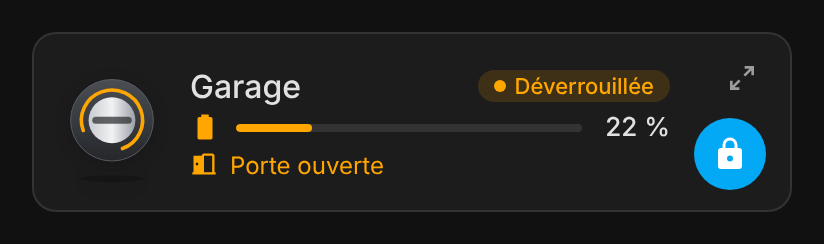
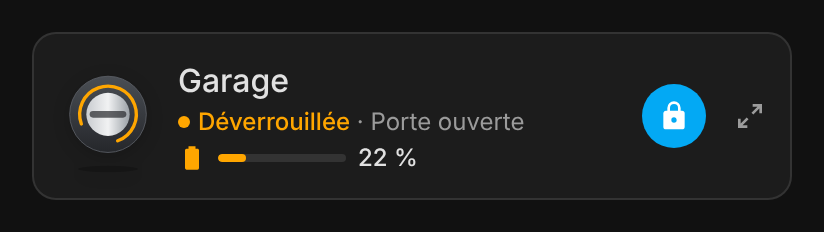
Mini card: alarm-style layout (1.2.3)
State shown in color under the name, shorter battery bar, detail button
inline at the far right of the row.

Claude-Session: https://claude.ai/code/session_01D5Bd6TRY4BTcvXm4WheNsK

diff --git a/src/smartlock-card.js b/src/smartlock-card.js
@@ -1244,22 +1244,22 @@ class SmartLockCard extends SmartLockBase {
 // ---------------------------------------------------------------------------
 
 const MINI_STYLE = `
-  .mini { display: flex; align-items: center; gap: 12px; padding: 10px 12px; }
-  .mini .right { flex: none; display: flex; flex-direction: column; align-items: flex-end; gap: 8px; }
-  .mini .right .zoom { margin: 0; }
-  .mini .picture { width: 54px; height: 62px; flex: none; }
+  .mini { display: flex; align-items: center; gap: 10px; padding: 12px; }
+  .mini .picture { width: 50px; height: 58px; flex: none; }
   .mini .picture img { filter: drop-shadow(0 2px 4px rgba(0,0,0,.18)); }
-  .mini .info { flex: 1; min-width: 0; display: flex; flex-direction: column; gap: 3px; }
-  .top { display: flex; align-items: center; gap: 8px; min-width: 0; }
-  .top .name { flex: 1; min-width: 0; font-size: 16px; font-weight: 500; white-space: nowrap; overflow: hidden; text-overflow: ellipsis; }
-  .batt { display: flex; align-items: center; gap: 8px; font-size: 13px; }
-  .batt .icon { color: var(--c); width: 15px; height: 15px; }
-  .batt .bar { flex: 1; }
-  .batt .v { font-weight: 500; min-width: 36px; text-align: right; white-space: nowrap; }
-  .batt .bolt { color: var(--sl-ok); }
-  .line, .alert-line { font-size: 12px; }
-  .line .icon, .alert-line .icon { width: 14px; height: 14px; }
-  .controls { display: flex; gap: 6px; flex: none; }
+  .mini .titles { flex: 1; min-width: 0; display: flex; flex-direction: column; gap: 3px; }
+  .mini .name { font-size: 16px; font-weight: 500; line-height: 1.25; white-space: nowrap; overflow: hidden; text-overflow: ellipsis; }
+  .mini .sub { font-size: 12px; color: var(--secondary-text-color); white-space: nowrap; overflow: hidden; text-overflow: ellipsis; }
+  .mini .sub .st { color: var(--c); font-weight: 500; }
+  .mini .sub .dot { margin-right: 4px; vertical-align: 1px; }
+  .mini .batt { display: flex; align-items: center; gap: 6px; font-size: 12px; }
+  .mini .batt .icon { color: var(--c); width: 14px; height: 14px; }
+  .mini .batt .bar { width: 64px; flex: none; }
+  .mini .batt .v { font-weight: 500; white-space: nowrap; }
+  .mini .batt .bolt { color: var(--sl-ok); }
+  .mini .controls { display: flex; gap: 6px; flex: none; }
+  .mini .controls .btn.round { width: 32px; height: 32px; }
+  .mini .controls .btn .icon { width: 16px; height: 16px; }
 `;
 
 // The mini card is a full card drawn compact: its detail button (top right, `zoom: false` removes it) switches it
@@ -1324,30 +1324,31 @@ class SmartLockMiniCard extends SmartLockCard {
     const state = this._state(lock);
     const cls = statusClass(state);
     const controls = this._controls(lock, state, true);
-    // One secondary line, by priority: alert (jammed, problem), open door, then the last change.
-    const secondary =
-      this._alertLine(m, state) ||
-      this._doorLine(m) ||
-      (valid(lock) ? `<div class="line">${svgIcon(ICONS.clock)}<span>${esc(this._changedText(lock))}</span></div>` : "");
+    // Sub-line, like the alarm card: the state in color, then a short detail (open door or last change).
     return `<style>${BASE_STYLE}${MINI_STYLE}</style>
       <ha-card>
         <div class="mini">
           ${this._picture(lock, state)}
-          <div class="info">
-            <div class="top">
-              <span class="name clickable" data-entity="${esc(lock.entity_id)}">${esc(this._config.title || name(this._hass, lock.entity_id))}</span>
-              <span class="chip clickable ${cls}" data-entity="${esc(lock.entity_id)}"><span class="dot"></span>${esc(this._fmtState(state))}</span>
-            </div>
+          <div class="titles">
+            <div class="name clickable" data-entity="${esc(lock.entity_id)}">${esc(this._config.title || name(this._hass, lock.entity_id))}</div>
+            <div class="sub clickable" data-entity="${esc(lock.entity_id)}"><span class="st ${cls}"><span class="dot"></span>${esc(this._fmtState(state))}</span>${esc(this._miniDetail(m, state, lock))}</div>
             ${this._batteryLine(this._battery(m))}
-            ${secondary}
           </div>
-          ${
-            controls || this._zoomButton()
-              ? `<div class="right">${this._zoomButton()}${controls ? `<div class="controls">${controls}</div>` : ""}</div>`
-              : ""
-          }
+          ${controls ? `<div class="controls">${controls}</div>` : ""}
+          ${this._zoomButton()}
         </div>
       </ha-card>`;
+  }
+
+  // What follows the state in the sub-line: " · Door open" while it is, else " · <when> · by <who>".
+  _miniDetail(m, state, lock) {
+    const door = this._s(m.door);
+    if (valid(door) && (door.state === "on" || door.state === "open")) return ` · ${this._t("door_open")}`;
+    if (!valid(lock)) return "";
+    const when = ago(this._hass, this._config, lock.last_changed);
+    if (!when) return "";
+    const by = lock.attributes?.changed_by;
+    return ` · ${when}${by ? ` · ${this._t("by", { who: by })}` : ""}`;
   }
 }
 

diff --git a/CHANGELOG.md b/CHANGELOG.md
@@ -1,5 +1,10 @@
 # Changelog
 
+## 1.2.3
+
+### Changes
+- Mini card: laid out like the alarm card — the state shown in color under the name, a shorter battery bar, and the detail button inline at the far right of the row, clear of the controls.
+
 ## 1.2.2
 
 ### Fixes
